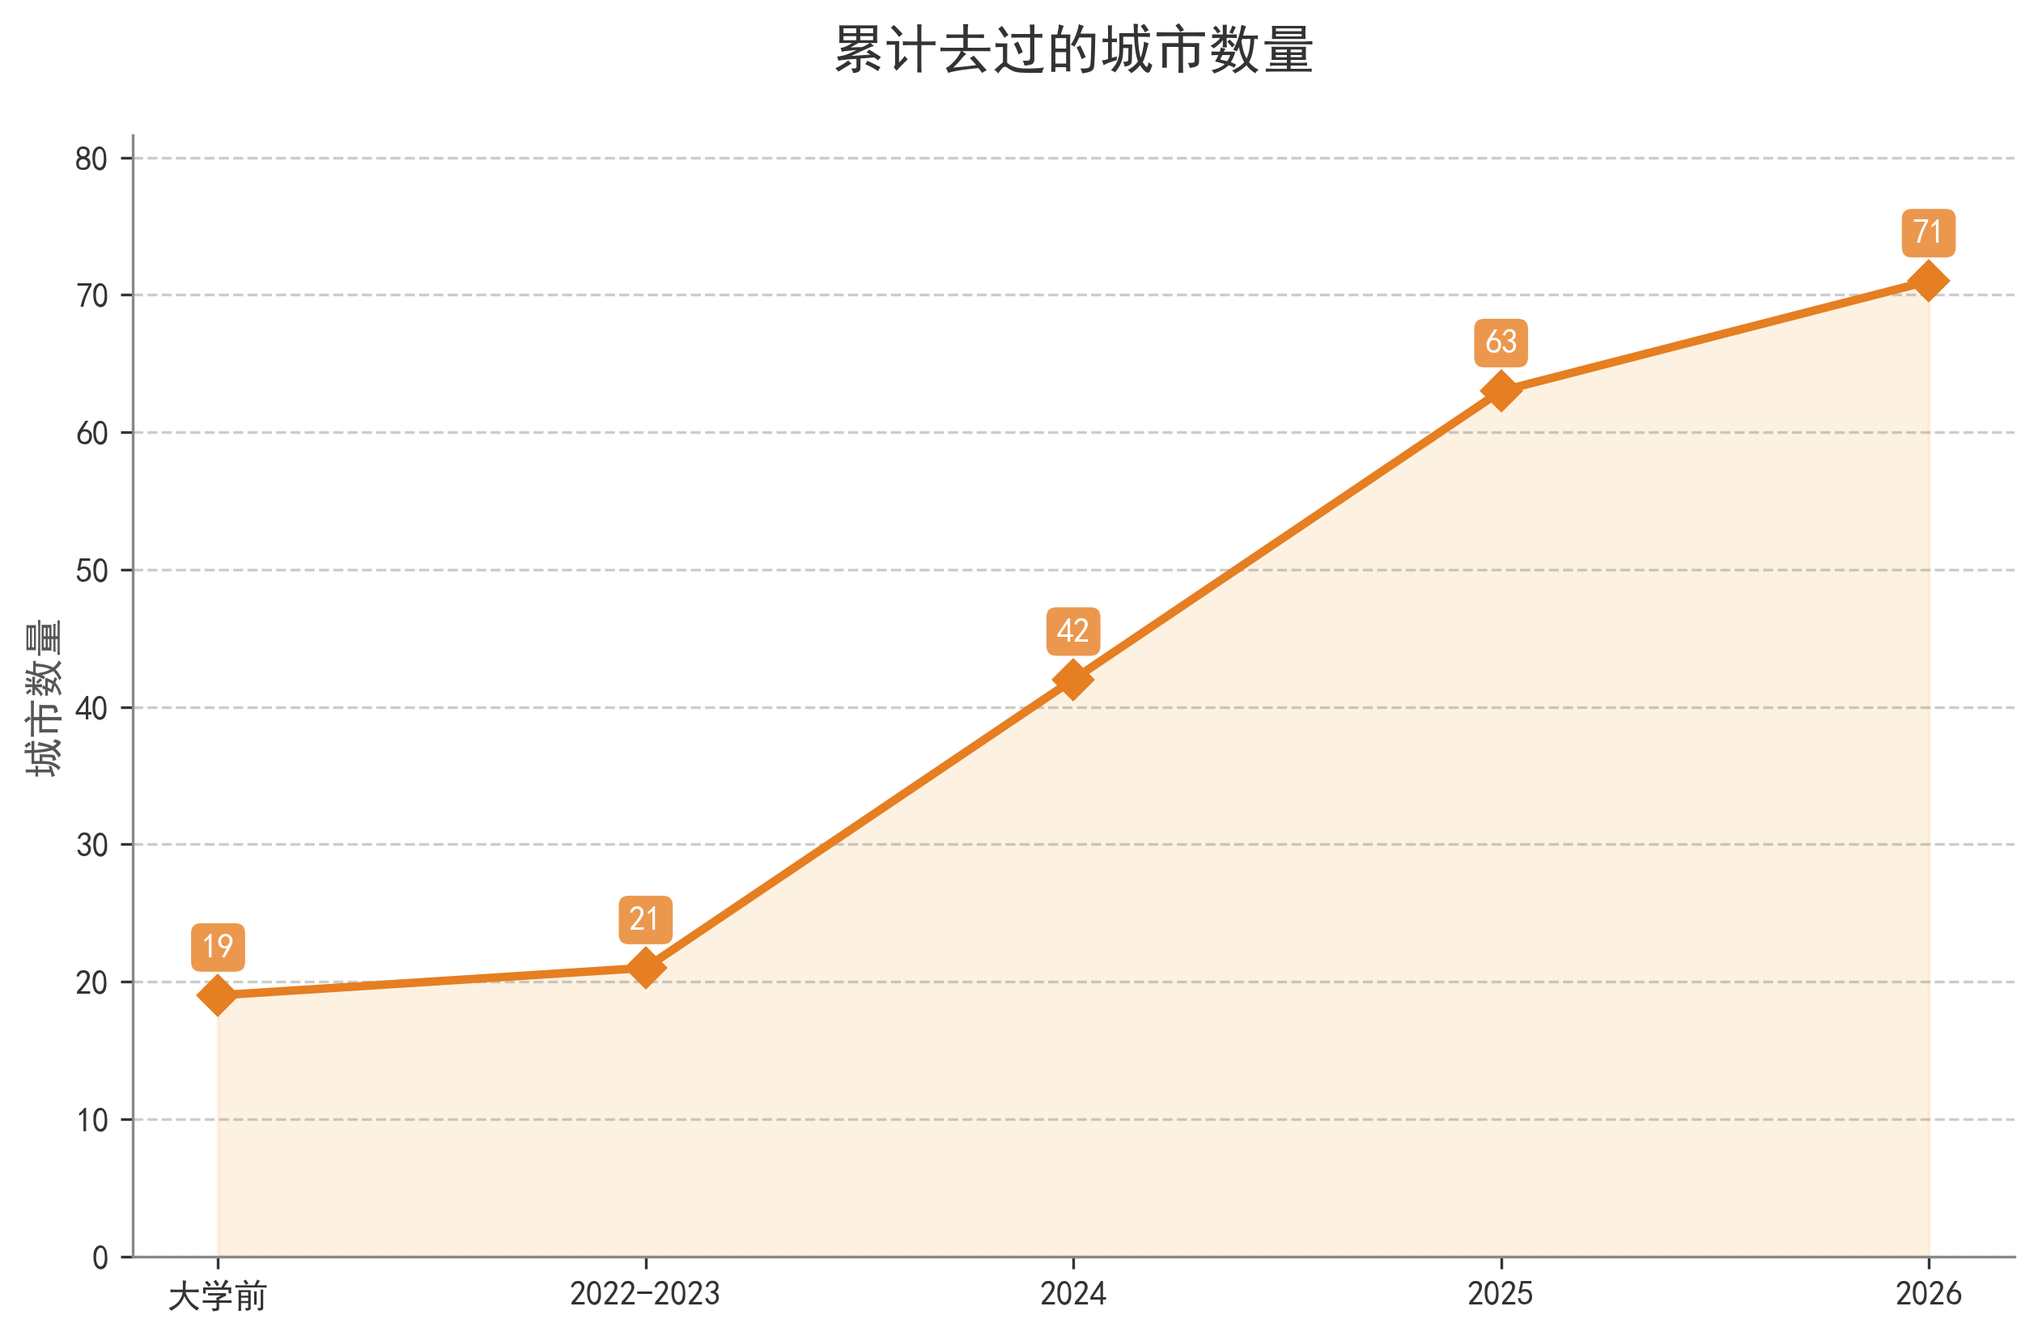
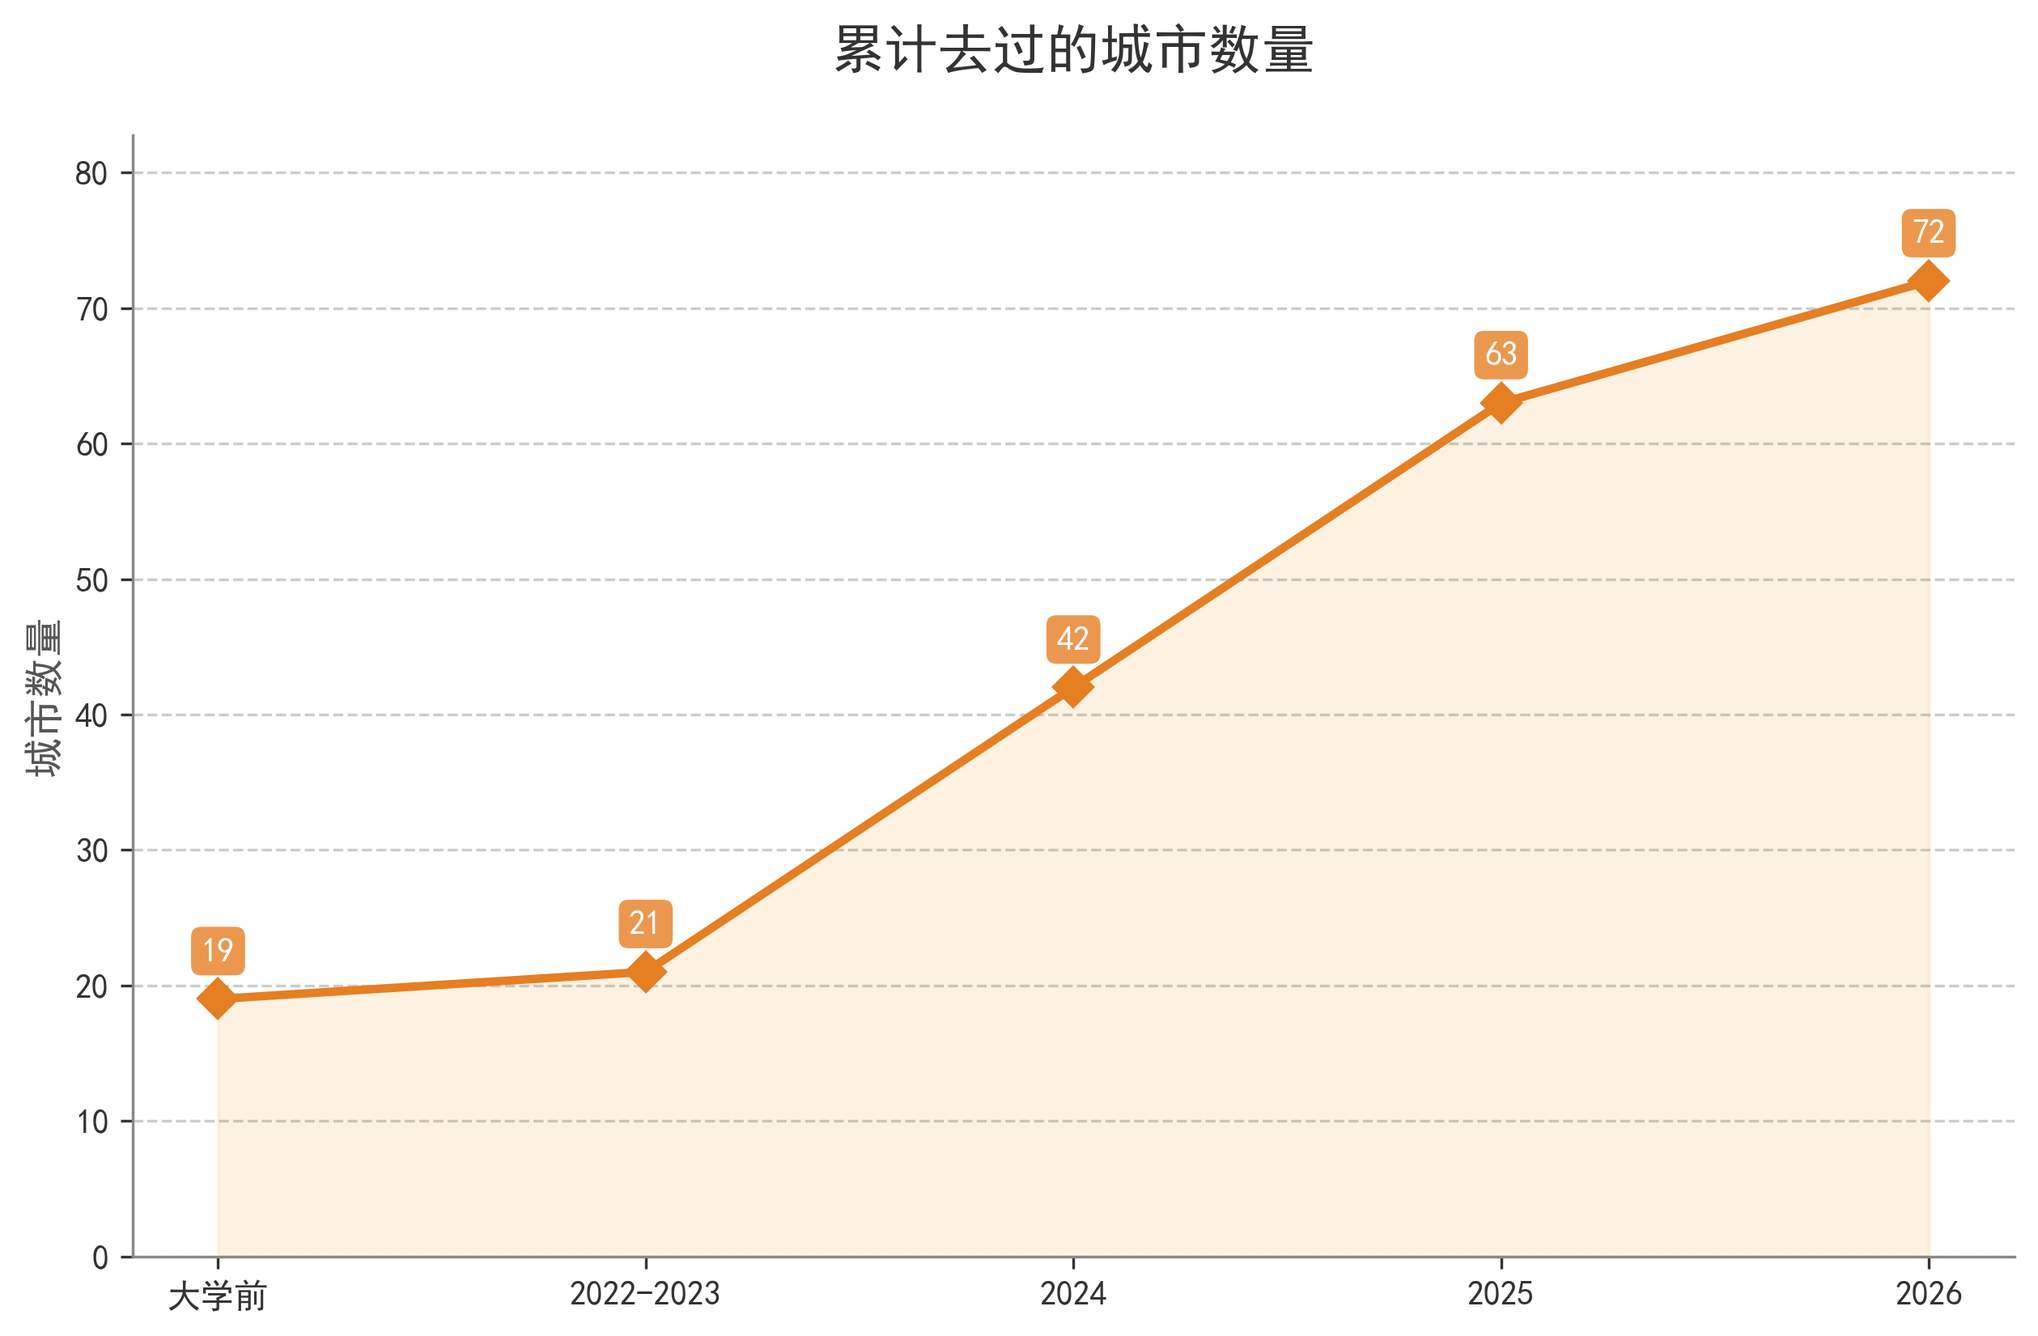
commit

diff --git a/exp.tex b/exp.tex
@@ -1,0 +1,127 @@
+% ============================================================
+% Milkyway -- Experiments Section (revised, English, LaTeX)
+% Required packages (add to preamble if not already loaded):
+%   \usepackage{booktabs}
+%   \usepackage{makecell}
+%   \usepackage{multirow}
+%   \usepackage{graphicx}
+% ============================================================
+
+\section{Experiments}
+\label{sec:experiments}
+
+We evaluate Milkyway on FutureX and FutureWorld, two forward-looking future-prediction benchmarks with complementary temporal granularities. The evaluation is organized around three questions: (i)~whether harness evolution from temporal internal feedback improves overall prediction performance relative to both single-time evidence-acquisition methods and cross-question experience-reuse methods; (ii)~whether the improvement is robust to variation in daily question composition in a strictly online setting; and (iii)~whether the harness itself, rather than the underlying agent scaffold, is the proximate source of the gain.
+
+% ------------------------------------------------------------------
+\subsection{Experimental Setup}
+\label{sec:exp_setup}
+
+\paragraph{Benchmarks.}
+We evaluate on FutureX~\citep{zeng2025futurex} and FutureWorld~\citep{FutureWorld2026han}. Both adopt the forward-looking evaluation protocol formalized in Section~\ref{sec:method}: a question is issued at time~$i$, the system may use only information publicly available before resolution, and scoring is performed only after the outcome~$y$ is revealed at time~$r > i$. FutureX follows a \emph{weekly} cadence---each Wednesday the model predicts events expected to resolve within the following week---providing a realistic multi-day window for checkpoint-level evidence accumulation. FutureWorld follows a \emph{daily next-day} cadence, where predictions made on day~$d$ target outcomes on day~$d+1$. For FutureX we use the official evaluation slice and report per-level scores (Levels~1--4) together with the overall aggregate. For FutureWorld, which contains both choice and numerical questions, we follow the benchmark's official metric for each question type and report the overall score.
+
+\paragraph{Baselines and Comparison Groups.}
+Because Milkyway's distinguishing feature is harness evolution under a fixed base model, we compare against two groups of methods that cover the most relevant alternatives.
+
+\textit{Single-time evidence-acquisition methods.} These methods test whether stronger search, verification, or orchestration at a \emph{single} prediction opportunity can improve performance, without any mechanism for updating a persistent artifact across checkpoints or questions. GPT-5.4 (with web search) uses the GPT-5.4 API with built-in web search enabled and serves as the direct base-model reference. MiroFlow~\citep{su2026miroflow} and Flash-Searcher~\citep{qin2025flash} are representative high-performance agent frameworks for web-assisted problem solving and long-horizon information retrieval, respectively.
+
+\textit{External experience-reuse methods.} These methods keep the base model frozen and accumulate reusable cross-question artifacts to improve future predictions. We include MemEvolve+Flash-Searcher~\citep{zhang2025memevolve,qin2025flash}, which applies MemEvolve-style memory evolution atop the Flash-Searcher scaffold, and AgentKB+smolagents~\citep{tang2025agent}, which applies AgentKB-style trajectory aggregation atop smolagents. These methods are structurally closest to Milkyway: all three maintain persistent cross-question artifacts with a frozen base model. The critical distinction lies in \emph{what} those artifacts encode---generic memory traces or trajectory snippets versus a structured future-prediction harness---and in \emph{how} updates are derived---from cross-question aggregation of resolved outcomes versus from temporal internal feedback extracted within the same unresolved question, as formalized in Section~\ref{sec:method}.
+
+We exclude approaches that optimize model parameters directly from resolved outcomes, such as Outcome-based Reinforcement Learning~\citep{turtel2025outcome} and Future-as-Label~\citep{turtel2026future}, because our setting centers on test-time adaptation with a frozen backbone.
+
+\paragraph{Shared Implementation Constraints.}
+All methods use \textbf{GPT-5.4} as the backbone and are evaluated on identical question sets under the same evaluation protocol, answer normalization procedure, and scoring cutoffs. No benchmark-specific prompt tuning or hyperparameter search is performed on evaluation questions. Comparison methods retain their native orchestration, default prompting, and default tool configuration; methods with reusable cross-question artifacts retain their standard write-back rules. Except for GPT-5.4 (with web search), which uses GPT's built-in retrieval, the remaining methods call the GPT API together with external retrieval services (Serper, SerpApi, Jina) following their native tool configurations. To enable controlled comparison we impose a shared upper limit of 256k effective context tokens and, for frameworks with explicit tool-use loops, at most 100 external-tool calls per question.
+
+% ------------------------------------------------------------------
+\subsection{Main Results on Future-Prediction Benchmarks}
+\label{sec:prediction_results}
+
+\begin{table*}[t]
+\centering
+\small
+\setlength{\tabcolsep}{4.2pt}
+\caption{Main results on \textsc{FutureX} and \textsc{FutureWorld}. For \textsc{FutureX}, \textsc{MiroFlow} and Milkyway report officially released results on the March~2026 Week~3 slice; all other methods are our own runs on the same slice scored with the official \textsc{FutureX} evaluation procedure~\citep{zeng2025futurex}. For \textsc{FutureWorld}, we report the mean over five daily windows from March~30 to April~3, 2026 (100 questions total); the per-day breakdown is in Table~\ref{tab:evolution_ourbench}. Horizontal rules separate single-time evidence-acquisition methods (top group), external experience-reuse methods (middle), and Milkyway (bottom).}
+\label{tab:prediction_results}
+\begin{tabular}{l ccccc c}
+\toprule
+\multirow{2}{*}{Method}
+  & \multicolumn{5}{c}{\textsc{FutureX}$\uparrow$}
+  & \makecell{\textsc{FutureWorld} \\ Score$\uparrow$} \\
+\cmidrule(lr){2-6}
+  & L1 & L2 & L3 & L4 & Ovr. & \\
+\midrule
+GPT-5.4 (with web search)         & 62.14 & 59.80 & 44.24 & 31.57 & 44.07 & 62.22 \\
+\textsc{MiroFlow}                 & 64.29 & 72.82 & 59.45 & \textbf{46.80} & 57.50 & 71.97 \\
+\textsc{Flash-Searcher}           & 62.81 & 60.56 & 45.61 & 33.17 & 45.34 & 63.52 \\
+\midrule
+\textsc{MemEvolve+Flash-Searcher} & 64.20 & 63.12 & 48.80 & 35.93 & 48.06 & 66.12 \\
+\textsc{AgentKB+smolagents}       & 63.40 & 61.73 & 47.20 & 34.51 & 46.65 & 64.88 \\
+\midrule
+\textbf{Milkyway}                 & \textbf{71.43} & \textbf{82.26} & \textbf{63.05} & 45.85 & \textbf{60.90} & \textbf{77.96} \\
+\bottomrule
+\end{tabular}
+\end{table*}
+
+Table~\ref{tab:prediction_results} reports the main benchmark comparison. For FutureX, MiroFlow and Milkyway are officially released scores for the March~2026 Week~3 slice; the remaining methods are our own predictions scored under the same procedure~\citep{zeng2025futurex}. For FutureWorld, methods with cross-question artifacts start each five-day window from an empty state and incorporate updates only from questions resolved by the corresponding day, preserving the forward-only protocol of Section~\ref{sec:method}; the per-day breakdown appears in Table~\ref{tab:evolution_ourbench}.
+
+Milkyway achieves the best overall score on both benchmarks, reaching 60.90 on FutureX and 77.96 on FutureWorld. On FutureX this represents a gain of 3.40 points over the strongest baseline (\textsc{MiroFlow}, 57.50) and 16.83 points over the GPT-5.4 base model. On FutureWorld, Milkyway leads \textsc{MiroFlow} by 5.99 points and GPT-5.4 by 15.74 points.
+
+Two patterns in these results are noteworthy. First, both external experience-reuse methods (\textsc{MemEvolve+Flash-Searcher}, \textsc{AgentKB+smolagents}) consistently outperform their GPT-5.4 base, confirming that cross-question artifact accumulation provides a meaningful signal for future prediction. Yet neither closes the gap with Milkyway, which exceeds them by 12.84--14.25 points on FutureX and 11.84--13.08 points on FutureWorld. This gap indicates that generic memory accumulation or trajectory aggregation across resolved outcomes is qualitatively insufficient compared with Milkyway's mechanism of deriving temporal internal feedback from the same unresolved question and encoding it into a structured future-prediction harness, as described in Section~\ref{sec:method}.
+
+Second, Milkyway does not dominate every individual FutureX level: \textsc{MiroFlow} is slightly higher on Level~4 (46.80 vs.\ 45.85). This gap is small and appears on a single live evaluation slice; we attribute it to slice-level variance rather than a systematic difference. The aggregate score, which we treat as the primary summary for this heterogeneous benchmark, favors Milkyway by a clear margin.
+
+% ------------------------------------------------------------------
+\subsection{Rolling Daily Evaluation on FutureWorld}
+\label{sec:evolution_dynamics}
+
+The five-day mean reported in Section~\ref{sec:prediction_results} averages over varying daily question composition. To test whether Milkyway's advantage is stable across that variation and to directly probe the online retrospective-check loop described in Section~\ref{sec:method}, we evaluate each of the five daily windows of the FutureWorld experiment separately. For methods with cross-question artifacts, reusable updates may incorporate only questions officially resolved by the corresponding day, preserving the same forward-only protocol.
+
+\begin{table*}[t]
+\centering
+\small
+\setlength{\tabcolsep}{4.2pt}
+\caption{Rolling daily evaluation on \textsc{FutureWorld} across five consecutive days (March~30--April~3, 2026). For methods with cross-question artifacts, reusable updates may incorporate only questions resolved by the corresponding day, preserving the forward-only protocol. Day~1 scores reflect performance before any resolved questions are available for retrospective update.}
+\label{tab:evolution_ourbench}
+\begin{tabular}{l ccccc}
+\toprule
+Method & Day~1 & Day~2 & Day~3 & Day~4 & Day~5 \\
+\midrule
+GPT-5.4 (with web search)         & 58.93 & 66.17 & 60.84 & 63.72 & 61.44 \\
+\textsc{MiroFlow}                 & 68.14 & 76.85 & 73.62 & 71.79 & 69.43 \\
+\textsc{Flash-Searcher}           & 59.83 & 67.24 & 62.47 & 65.13 & 62.93 \\
+\midrule
+\textsc{MemEvolve+Flash-Searcher} & 63.17 & 69.54 & 65.28 & 67.23 & 65.38 \\
+\textsc{AgentKB+smolagents}       & 62.43 & 67.86 & 63.72 & 65.57 & 64.82 \\
+\midrule
+\textbf{Milkyway}                 & \textbf{74.48} & \textbf{82.89} & \textbf{77.14} & \textbf{80.68} & \textbf{74.61} \\
+\bottomrule
+\end{tabular}
+\end{table*}
+
+Milkyway ranks first in all five daily windows, with a margin of 3.52--8.89 points over the strongest competing method on each day (Table~\ref{tab:evolution_ourbench}). Two observations warrant attention. First, Milkyway's Day~1 score (74.48) already leads \textsc{MiroFlow} (68.14) by 6.34 points before any cross-question retrospective check becomes available, indicating that the initial harness and the agent scaffold together provide a strong baseline. Second, the advantage persists across all five days despite fluctuations in question composition and in the amount of resolved-outcome supervision available for each day's update---ruling out the possibility that the main-result gain is an artifact of a single favorable date or of aggregation.
+
+% ------------------------------------------------------------------
+\subsection{Mechanism Analysis: Harness Contribution and Temporal Proximity}
+\label{sec:temporal_proximity}
+
+The preceding results establish that Milkyway outperforms both single-time and cross-question baselines, but do not directly identify the source of the gain. We now conduct a controlled ablation to test the core mechanism proposed in Sections~\ref{sec:intro} and~\ref{sec:method}: as an unresolved question approaches resolution, the public evidence available at each checkpoint~$\tau_t$ becomes increasingly informative, and a system able to extract temporal internal feedback from successive checkpoints and write it into the harness should accrue a growing advantage at later time points. We select a fixed event cohort from FutureWorld and re-run prediction daily from 5 days before resolution (T$-5$d) to 1 day before resolution (T$-1$d). All three settings below are evaluated on identical questions at identical checkpoints; observed differences can therefore be attributed to harness availability rather than to question composition.
+
+\begin{table*}[t]
+\centering
+\small
+\setlength{\tabcolsep}{4.0pt}
+\caption{Mechanism ablation: temporal proximity analysis on a fixed \textsc{FutureWorld} event cohort. Predictions are made daily from 5 days before resolution (T$-5$d) to 1 day before resolution (T$-1$d). All three settings are evaluated on the same questions at the same checkpoints; differences are attributable to harness availability. Milkyway~(No Harness) retains the full agent scaffold but disables harness read and write, isolating the harness contribution from that of the underlying agent.}
+\label{tab:temporal_proximity}
+\begin{tabular}{l ccccc}
+\toprule
+Setting & T$-5$d & T$-4$d & T$-3$d & T$-2$d & T$-1$d \\
+\midrule
+GPT-5.4 (with web search) & 57.48 & 61.87 & 63.21 & 61.55 & 65.54 \\
+Milkyway (No Harness)     & 61.78 & 65.18 & 68.75 & 67.29 & 71.60 \\
+Milkyway (Full Harness)   & 69.03 & 70.64 & 73.75 & 78.72 & 76.98 \\
+\bottomrule
+\end{tabular}
+\end{table*}
+
+Table~\ref{tab:temporal_proximity} compares three settings. \textit{GPT-5.4 (with web search)} is the base-model reference. \textit{Milkyway (No Harness)} retains the same ReAct-style tool-use scaffold as Milkyway but disables harness read and write operations entirely, isolating the agent scaffold's contribution. \textit{Milkyway (Full Harness)} enables the complete checkpoint-note and harness-update loop of Section~\ref{sec:method}.
+
+Three findings emerge from Table~\ref{tab:temporal_proximity}. First, Milkyway (No Harness) tracks GPT-5.4 closely across all checkpoints, confirming that the agent scaffold alone does not account for the gains reported in Section~\ref{sec:prediction_results}; the harness is the proximate source of the improvement. Second, enabling the harness produces a substantially larger advantage that widens as resolution approaches: the margin of Full Harness over No Harness is modest at T$-5$d but grows progressively through T$-3$d and T$-2$d, reaching its peak near T$-2$d. This progressive widening is consistent with the mechanism described in Section~\ref{sec:method}---later checkpoints surface evidence that makes earlier shortcomings more diagnosable, yielding increasingly informative internal feedback that is committed to the harness. Third, Full Harness maintains a substantial lead over GPT-5.4 (with web search) at every checkpoint, demonstrating that the harness benefit accumulates rather than merely exploiting last-minute evidence. While the trajectories are not strictly monotonic at every horizon---a degree of variability expected of live evaluation data---the overall trend corroborates the proposed mechanism: temporally proximal evidence yields useful pre-resolution internal feedback, which is written into the harness and subsequently improves prediction quality.

diff --git a/draw.py b/draw.py
@@ -37,8 +37,8 @@ def add_labels(ax, x, y, color):
 
 # ----------------- 数据部分 -----------------
 years = ["大学前", "2022-2023", "2024", "2025", "2026"]
-new_cities = [19, 2, 21, 21, 8]  
-cumulative_cities = [19, 21, 42, 63, 71] 
+new_cities = [19, 2, 21, 21, 9]  
+cumulative_cities = [19, 21, 42, 63, 72] 
 
 # ----------------- 绘图1: 新到的城市 -----------------
 plt.figure(figsize=(10, 6))

diff --git a/source/_posts/行旅杂记.md b/source/_posts/行旅杂记.md
@@ -129,7 +129,7 @@ date: 2024-11-15 00:00:00
 
 2月26日开始返京，先到深圳停留一天，28日从深圳到合肥，3月1日从合肥到北京[^21]。
 
-至此，共计去过19个省级行政区，71个城市[^20]：
+至此，共计去过20个省级行政区，72个城市[^20]：
 - 省
   - 广东（15/21）：湛江、广州、茂名、东莞、河源、惠州、阳江、江门、佛山、中山、珠海、韶关、揭阳、潮州、深圳
   - 贵州（5/9）：贵阳、黔南、黔东南、安顺、铜仁
@@ -146,6 +146,7 @@ date: 2024-11-15 00:00:00
   - 福建（2/9）：福州、龙岩
   - 河北（2/11）：承德、保定、秦皇岛
   - 辽宁（1/14）：葫芦岛
+  - 甘肃（1/14）：嘉峪关
 - 直辖市
   - 北京、上海、天津
 - 自治区
@@ -341,8 +342,9 @@ date: 2024-11-15 00:00:00
 | 2025.1     | 合肥新桥       | 广州白云 T1  | 东方航空 MU5287 | 空客320-251(N)  |     1105 |
 | 2025.2     | 深圳宝安 T3    | 合肥新桥 | 南方航空 CZ5367 | 空客321-253(N)(X) |     1191 |
 | 2025.9 | 湛江吴川 | 合肥新桥（经停赣州黄金） | 东方航空 MU9092| 中国商飞 C909  |   1594 |
+| 2026.4| 北京大兴 | 嘉峪关酒泉| 厦门航空 MF8211 | 波音737-85C(WL) |  2074|
 
-- 小计：11次，14612km，9个机场
+- 小计：12次，16686km，10个城市，11个机场
 
 <figure style="text-align: center;"> <img src="https://s3.bmp.ovh/imgs/2025/09/05/722603a237d710ef.jpg" alt="航班记录" style="display: block; margin-left: auto; margin-right: auto;width: 100%;"></figure>
 

diff --git a/renew.md b/renew.md
@@ -703,3 +703,6 @@
    1. 加梅花引 · 荆溪阻雪
    2. 加4月14日北京行迹
    3. 回家路上3加白居易《赋得古原草送别》、杀人坳改名新闻
+
+4.16
+   1. 加嘉峪关
